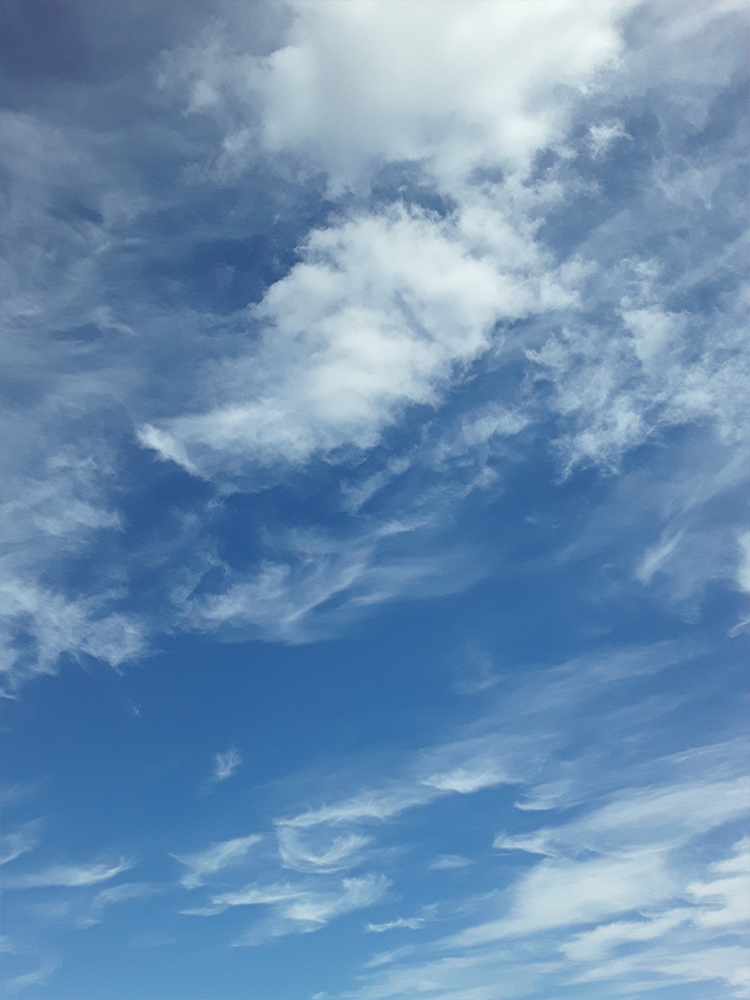
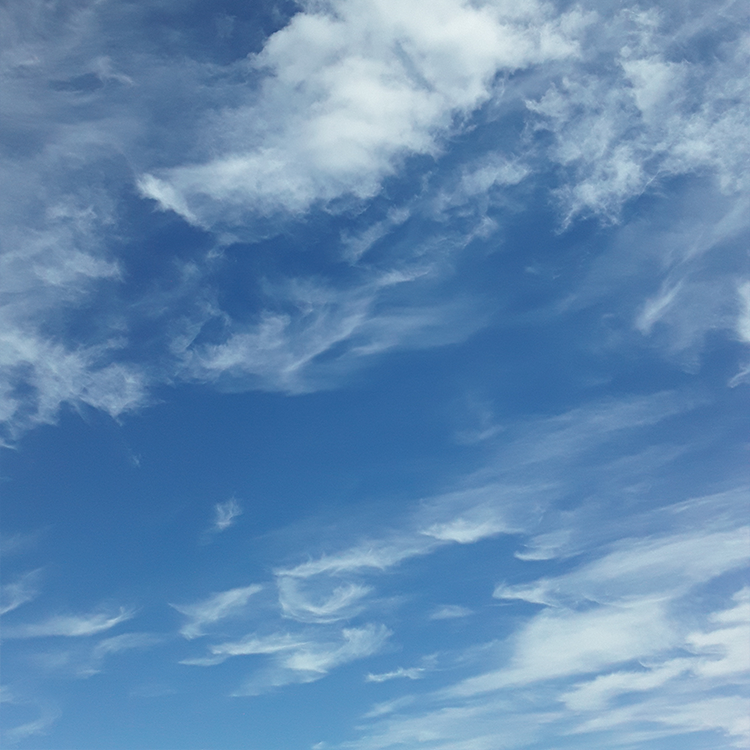
d

diff --git a/index.html b/index.html
@@ -304,21 +304,21 @@
 <div class="my-gallery" itemscope itemtype="http://schema.org/ImageGallery">
 
   <figure itemprop="associatedMedia" itemscope itemtype="http://schema.org/ImageObject">
-    <a href="images/photo/ch_ciel_1.png" itemprop="contentUrl" data-size="750x1000">
+    <a href="images/photo/ch_ciel_1.png" itemprop="contentUrl" data-size="750x750">
         <img src="images/photo/ch_ciel_1.png" itemprop="thumbnail" alt="Image description" />
    </a>
   <figcaption itemprop="caption description">Design informatique</figcaption>                         
   </figure>
 
   <figure itemprop="associatedMedia" itemscope itemtype="http://schema.org/ImageObject">
-    <a href="images/photo/ch_ciel_2.png" itemprop="contentUrl" data-size="750x1000">
+    <a href="images/photo/ch_ciel_2.png" itemprop="contentUrl" data-size="750x750">
         <img src="images/photo/ch_ciel_2.png" itemprop="thumbnail" alt="Image description" />
    </a>
   <figcaption itemprop="caption description">Design informatique</figcaption>                         
   </figure>
 
   <figure itemprop="associatedMedia" itemscope itemtype="http://schema.org/ImageObject">
-    <a href="images/photo/ch_ciel_3.png" itemprop="contentUrl" data-size="750x1000">
+    <a href="images/photo/ch_ciel_3.png" itemprop="contentUrl" data-size="750x750">
         <img src="images/photo/ch_ciel_3.png" itemprop="thumbnail" alt="Image description" />
    </a>
   <figcaption itemprop="caption description">Design informatique</figcaption>                         
